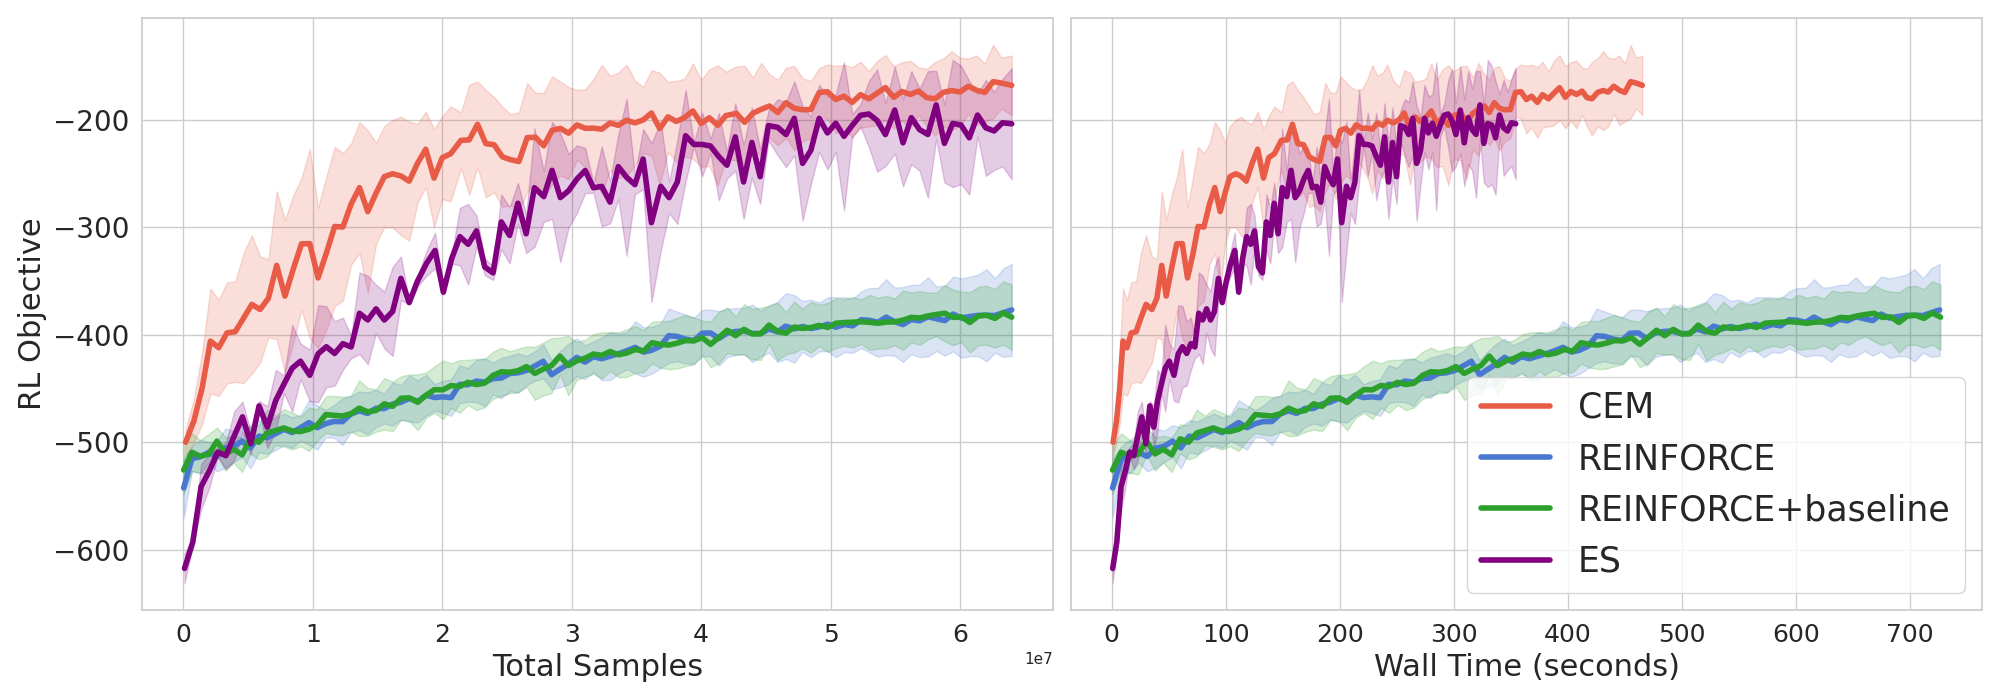
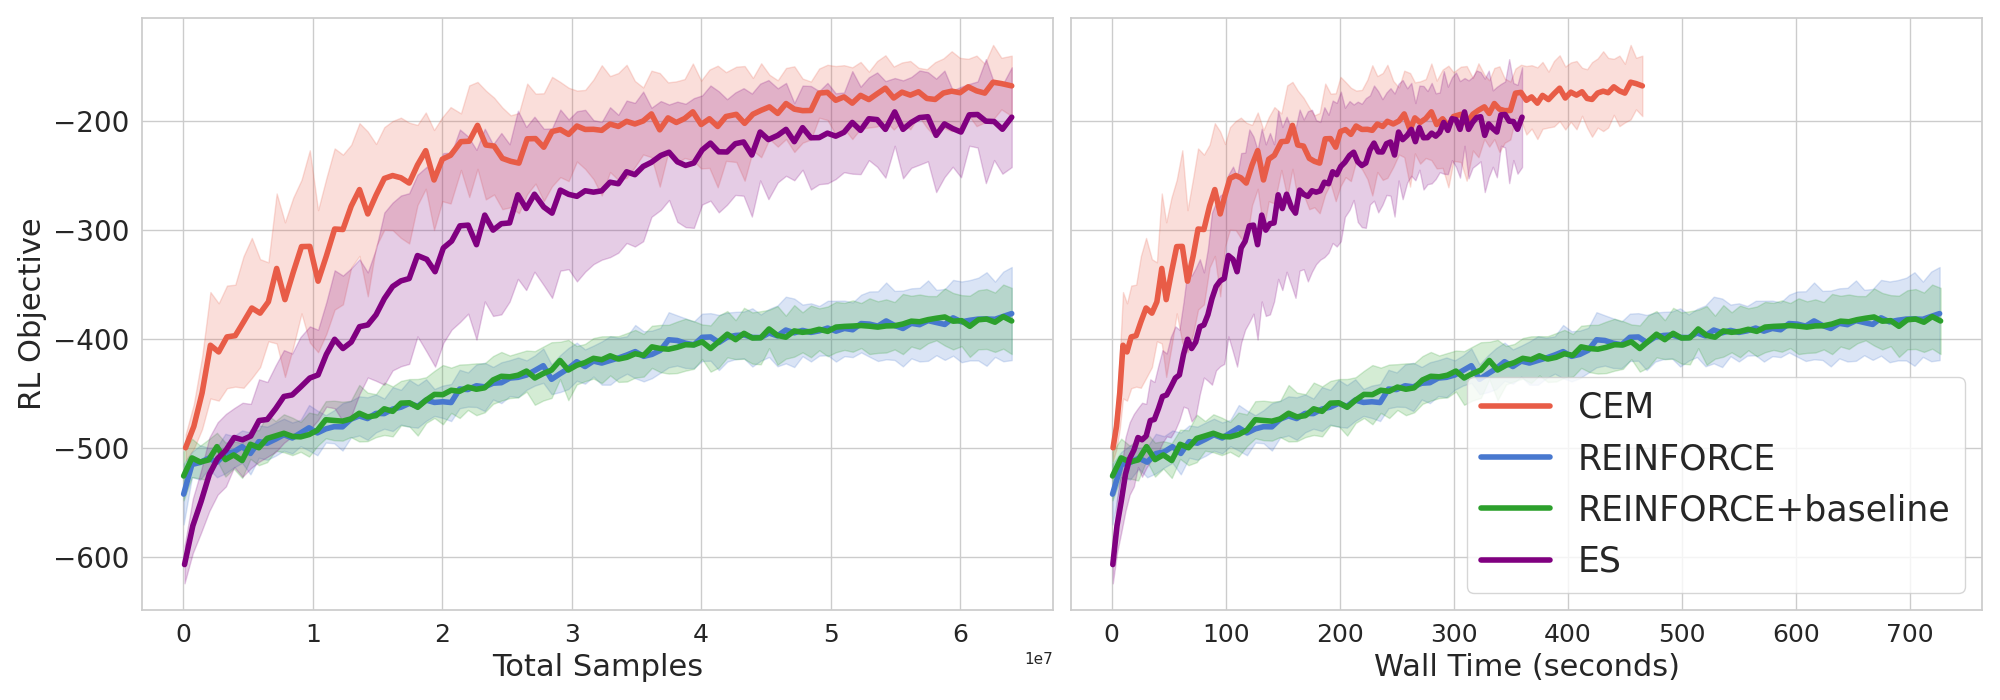
fixed some bug

diff --git a/plotting_best_hps.py b/plotting_best_hps.py
@@ -84,7 +84,7 @@ reinforce_baseline_data_paths = [
 plot_data(reinforce_baseline_data_paths, '-', '#2ca02c', 'REINFORCE+baseline', ax1, ax2)
 
 es_data_paths = [
-    f'beta_es_data_Pendulum-v1_pop8_size16_evals50_lr0.01_std0.1_seed{seed}/training_data_final.npy'
+    f'beta_es_data_Pendulum-v1_pop8_size16_evals50_lr0.01_std0.1_seed{seed}/training_data_iter.npy'
     for seed in range(3, 3 + 15)
 ]
 plot_data(es_data_paths, '-', 'purple', 'ES', ax1, ax2)
